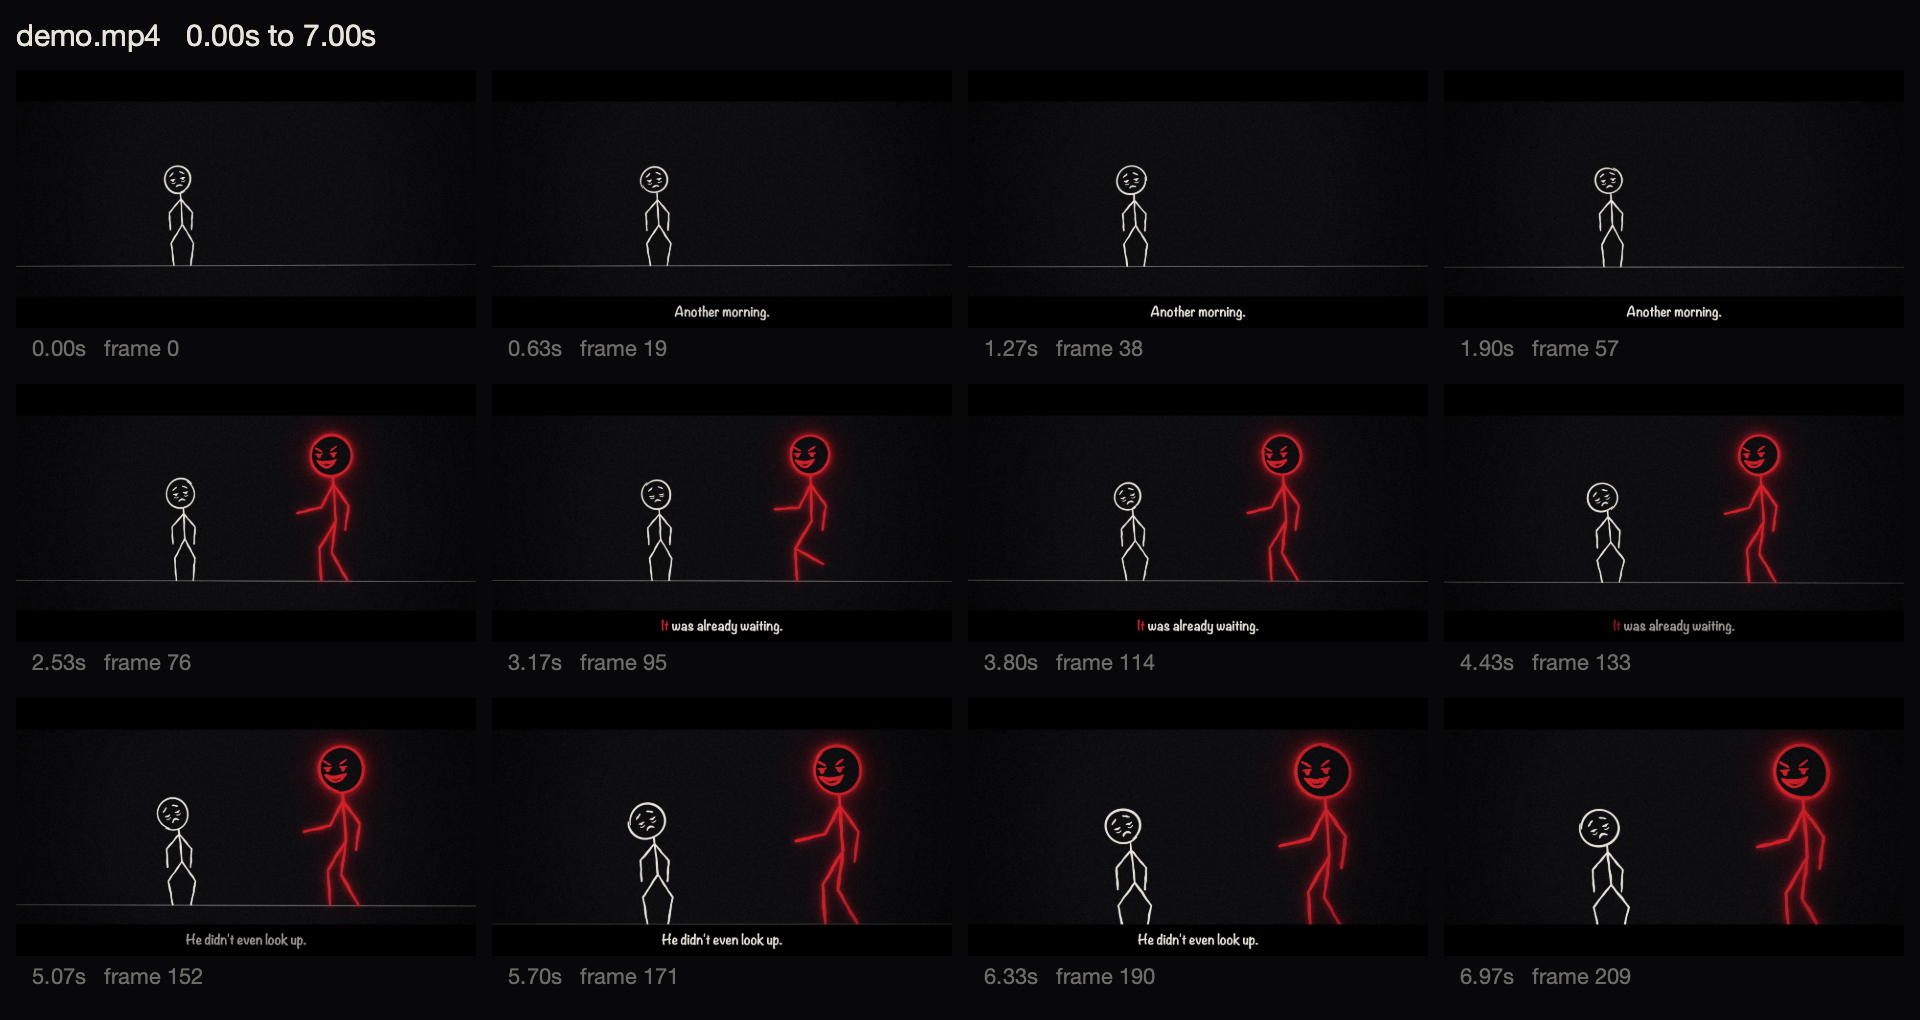
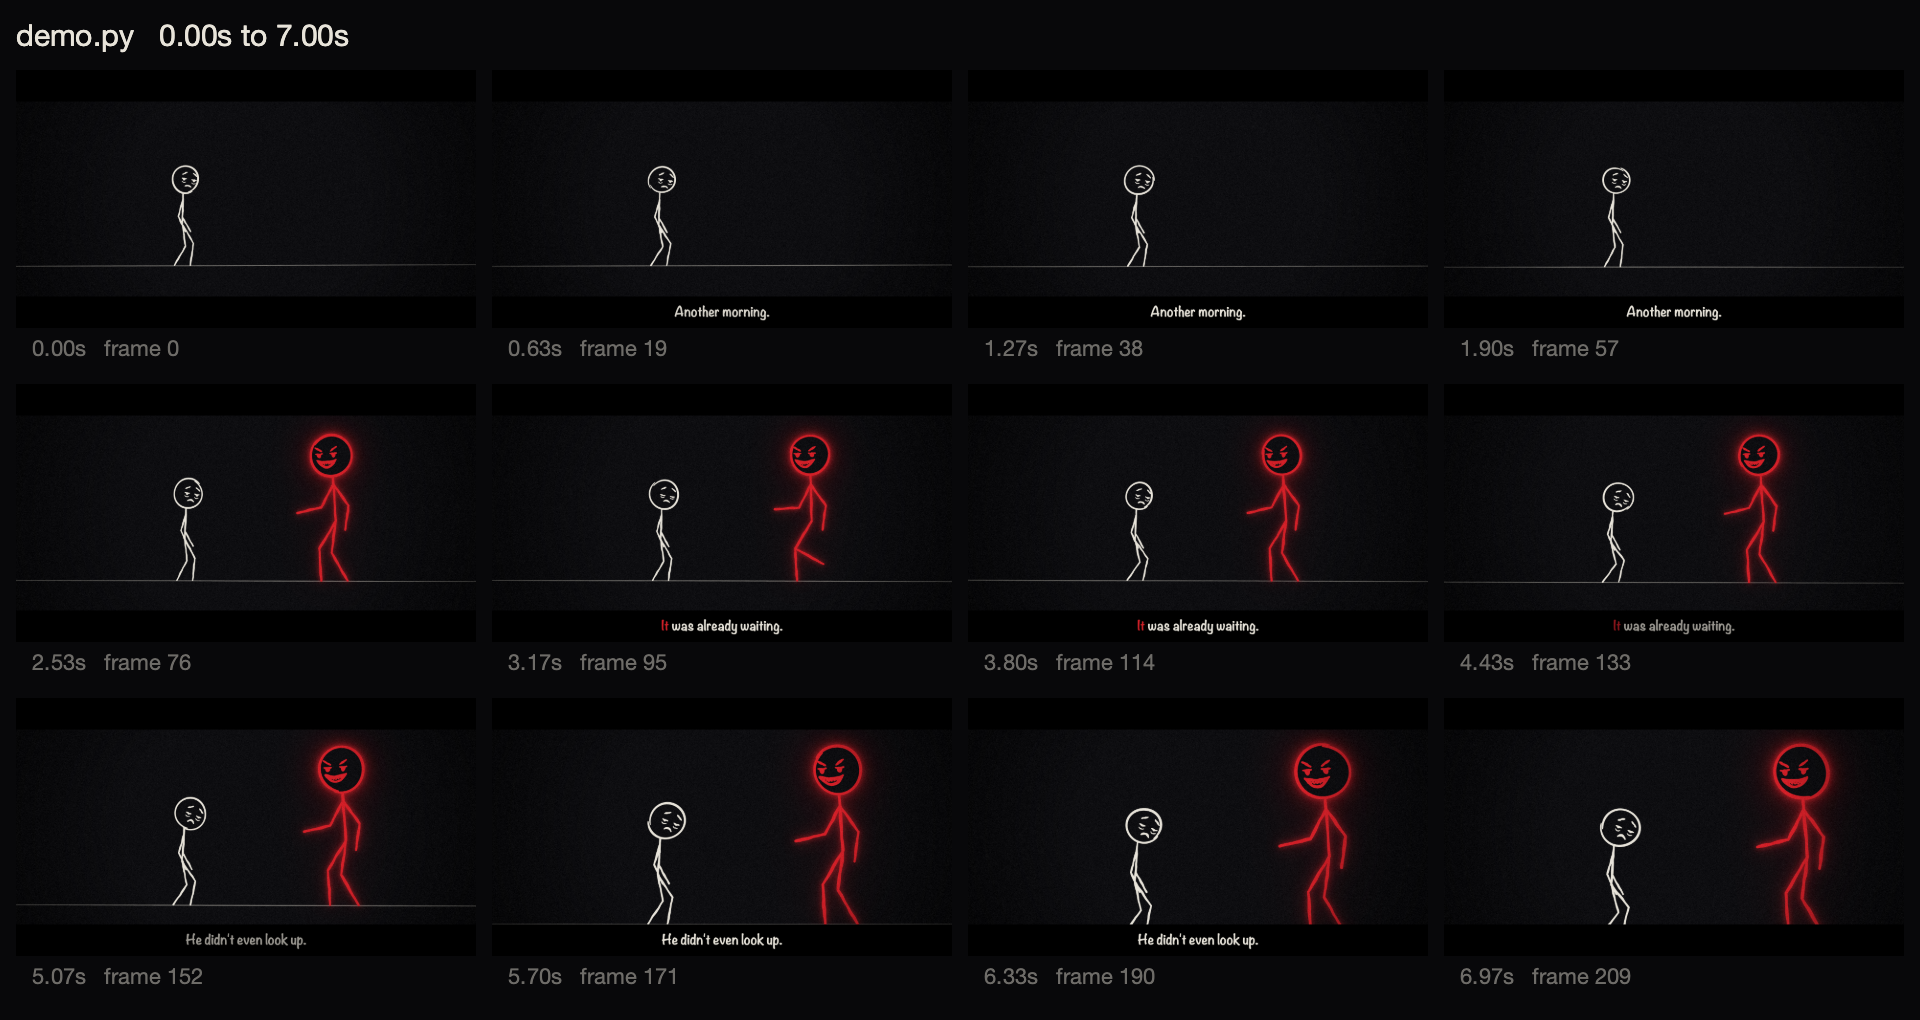
Redraw demo contact sheets in the approved look, note setup on a new Mac
Both demo sheets still showed the old look (hero facing the viewer); they
now match style_v2. CLAUDE.md now says to install Homebrew's Python 3.13 on
another computer so the uploaded .venv works as is, instead of rebuilding it.

diff --git a/CLAUDE.md b/CLAUDE.md
@@ -25,7 +25,7 @@ Only record what the user has agreed to, not suggestions that are still open. Af
 
 ## Setup
 
-- Python: always run `.venv/bin/python`. It's a virtual environment (Python 3.13) with skia-python, numpy and scipy. Don't use the system `python3`, which is Apple's old 3.9. To rebuild it (e.g. on another computer): `python3.13 -m venv .venv && .venv/bin/pip install -r requirements.txt`.
+- Python: always run `.venv/bin/python`. It's a virtual environment (Python 3.13) with skia-python, numpy and scipy. Don't use the system `python3`, which is Apple's old 3.9. The uploaded `.venv/` relies on Homebrew's Python 3.13, so on another computer run `brew install python@3.13` and it works as is. Don't rebuild it there: that rewrites about 2,900 uploaded files. Only if it's broken beyond that: `python3.13 -m venv .venv && .venv/bin/pip install -r requirements.txt`.
 - Git: the code is on GitHub at https://github.com/buuraak/video (branch `main`). Commits in this project use the email bubaykara@outlook.com (set for this folder only). Everything is uploaded, including `.venv/` and the rendered outputs (`films/`, `sheets/`, `audio/`); only Python cache files and `.DS_Store` are left out. Push only when the user asks.
 - ffmpeg and ffprobe come from Homebrew, at `/opt/homebrew/bin`.
 - Voice: the macOS `say` command, e.g. `say -v Samantha -o line.aiff "text"`, then convert with ffmpeg. Only the basic voices are installed. The user can download Enhanced or Premium voices in System Settings → Accessibility → Spoken Content → System Voice → Manage Voices.
